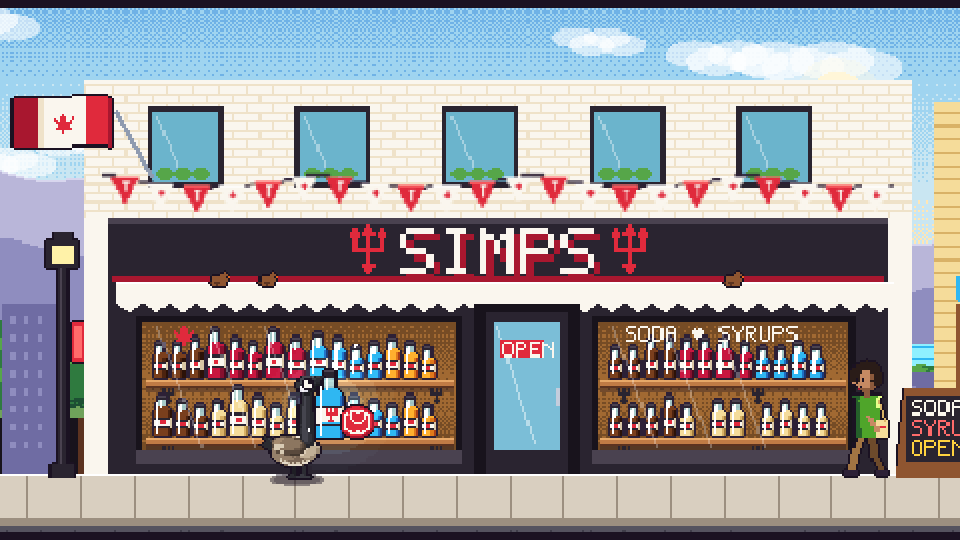
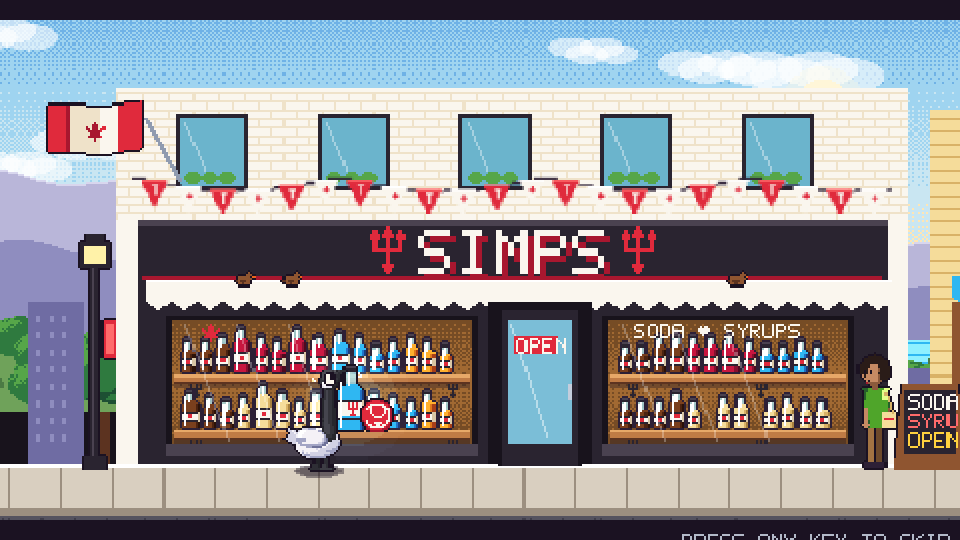
Phones held sideways: game widens to fill the screen with the original in-game buttons
- Canvas widens to the screen's shape (480-640 wide) on touch devices in landscape
- Gameplay camera uses the full width; HUD, buttons, dialogue and menus stay in a centred 480 frame
- Side-bar controls removed again (rotate-sideways card kept)
- Mobile e2e maps touches through the centred HUD frame

Claude-Session: https://claude.ai/code/session_019Ne5GHyCBQvH5tGTV4PYB6

diff --git a/simps-goose/src/systems/view.ts b/simps-goose/src/systems/view.ts
@@ -1,0 +1,59 @@
+/**
+ * Widescreen view for phones held sideways.
+ * The game is authored at 480x270 (16:9). Phones are wider (~19.5:9), which used to leave black
+ * bars. On a touch device in landscape the canvas widens (up to 640) to match the screen:
+ *  - gameplay cameras use the full width, so the level fills the screen;
+ *  - HUD, buttons, dialogue and every 480-wide menu/cutscene stay in a centred 480 frame,
+ *    exactly as they were designed.
+ */
+import Phaser from 'phaser';
+
+export const BASE_W = 480, BASE_H = 270;
+export const VIEW = { w: BASE_W, ox: 0 };
+
+export function desiredWidth(touch: boolean): number {
+  const W = window.innerWidth, H = window.innerHeight;
+  if (!touch || H >= W) return BASE_W;
+  return Math.max(BASE_W, Math.min(640, Math.round((BASE_H * W) / H)));
+}
+function setW(w: number) { VIEW.w = w; VIEW.ox = Math.round((w - BASE_W) / 2); }
+
+/** Non-gameplay scenes (menus, cutscenes, overlays): keep their 480-wide layout, centred. */
+export function fitFixed(scene: Phaser.Scene) {
+  for (const cam of scene.cameras.cameras) cam.setViewport(VIEW.ox, 0, BASE_W, BASE_H);
+}
+
+interface ViewLevel extends Phaser.Scene { worldW: number; uiCam?: Phaser.Cameras.Scene2D.Camera }
+/** Gameplay scenes: world camera as wide as the screen (or the level, if narrower); UI camera centred. */
+export function fitLevel(scene: ViewLevel) {
+  const main = scene.cameras.main;
+  const vw = Math.min(VIEW.w, Math.max(BASE_W, scene.worldW || BASE_W));
+  main.setViewport(Math.round((VIEW.w - vw) / 2), 0, vw, BASE_H);
+  if (!scene.uiCam) { scene.uiCam = scene.cameras.add(VIEW.ox, 0, BASE_W, BASE_H, false, 'ui'); scene.uiCam.setRoundPixels(true); }
+  scene.uiCam.setViewport(VIEW.ox, 0, BASE_W, BASE_H);
+}
+/** Route objects: screen-fixed UI (scrollFactor 0) → UI camera only; the world → main camera only. */
+export function routeCameras(scene: ViewLevel) {
+  const ui = scene.uiCam; if (!ui) return;
+  const mainId = scene.cameras.main.id, uiId = ui.id;
+  for (const o of scene.children.list as (Phaser.GameObjects.GameObject & { scrollFactorX?: number; cameraFilter: number })[]) {
+    o.cameraFilter = o.scrollFactorX === 0 ? mainId : uiId;
+  }
+}
+
+/** Install once in main.ts. */
+export function installView(game: Phaser.Game, isTouch: () => boolean, isLevel: (s: Phaser.Scene) => boolean) {
+  const apply = (s: Phaser.Scene) => { if (isLevel(s)) fitLevel(s as ViewLevel); else fitFixed(s); };
+  setW(desiredWidth(isTouch()));
+  for (const s of game.scene.scenes) s.events.on('create', () => apply(s));
+  const check = () => {
+    const w = desiredWidth(isTouch());
+    if (w === VIEW.w) return;
+    setW(w);
+    game.scale.setGameSize(w, BASE_H);
+    for (const s of game.scene.getScenes(false)) if (s.sys.settings.status >= Phaser.Scenes.CREATING) apply(s);
+  };
+  window.addEventListener('resize', () => setTimeout(check, 60));
+  window.addEventListener('orientationchange', () => setTimeout(check, 300));
+  return VIEW.w;
+}

diff --git a/simps-goose/src/levels/LevelScene.ts b/simps-goose/src/levels/LevelScene.ts
@@ -26,6 +26,7 @@ import { SFX } from '../audio/sfx';
 import { MUSIC, Song } from '../audio/music';
 import { Dialogue, Line } from '../ui/Dialogue';
 import { txt } from '../art/font';
+import { routeCameras } from '../systems/view';
 
 export type Phase = 'intro' | 'play' | 'picker' | 'cutscene' | 'frozen';
 export type PickupKind = 'drop' | 'leaf' | 'badge' | 'bottle' | 'card' | 'star' | 'bean' | 'token';
@@ -65,7 +66,7 @@ export abstract class LevelScene extends Phaser.Scene {
   checkpointSprites: { img: Phaser.GameObjects.Sprite; x: number; y: number; on: boolean }[] = [];
   stomps = 0;
   dialogue: Dialogue | null = null;
-  outfitBadge: Phaser.GameObjects.Image | null = null; offTopT = 0; stuckT = 0; lastHint = ''; hintWin: Phaser.GameObjects.Container | null = null;
+  outfitBadge: Phaser.GameObjects.Image | null = null; uiCam?: Phaser.Cameras.Scene2D.Camera; offTopT = 0; stuckT = 0; lastHint = ''; hintWin: Phaser.GameObjects.Container | null = null;
   cHold = -1; superCd = 0;
 
   // ---------------------------------------------------------------- hooks
@@ -89,6 +90,7 @@ export abstract class LevelScene extends Phaser.Scene {
   /** Call first in create(). */
   initLevel(o: { w: number; h: number; floor: number; bg: number; spawn: { x: number; y: number } }) {
     this.resetBase();
+    this.uiCam = undefined; // cameras are rebuilt on every (re)start
     this.worldW = o.w; this.worldH = o.h; this.floorY = o.floor;
     this.cameras.main.setBounds(0, 0, o.w, o.h).setBackgroundColor(o.bg).setRoundPixels(true);
     this.world = new PhysicsWorld();
@@ -431,6 +433,7 @@ export abstract class LevelScene extends Phaser.Scene {
 
   // ---------------------------------------------------------------- loop
   update(_t: number, deltaMs: number) {
+    routeCameras(this);
     if (this.phase === 'frozen') return;
     const dt = Math.min(deltaMs / 1000, 1 / 20);
     const hadDialogue = !!this.dialogue;

diff --git a/simps-goose/src/main.ts b/simps-goose/src/main.ts
@@ -1,5 +1,7 @@
 import Phaser from 'phaser';
 import { installTouchpad } from './systems/touchpad';
+import { installView, desiredWidth } from './systems/view';
+import { LevelScene } from './levels/LevelScene';
 import { setFullscreenNotifier } from './systems/fullscreen';
 import { BootScene, InputScene } from './scenes/BootScene';
 import { TitleScene } from './scenes/TitleScene';
@@ -20,10 +22,11 @@ import { TrueEndScene } from './scenes/TrueEndScene';
 import { JournalScene } from './scenes/JournalScene';
 
 (window as unknown as { __SIMPS: Record<string, unknown> }).__SIMPS = {};
+const touchDevice = () => ('ontouchstart' in window || navigator.maxTouchPoints > 0);
 const game = new Phaser.Game({
   type: Phaser.AUTO,
   parent: 'game',
-  width: 480,
+  width: desiredWidth(touchDevice()), // widens on phones held sideways so the game fills the screen
   height: 270,
   pixelArt: true,
   roundPixels: true,
@@ -34,6 +37,7 @@ const game = new Phaser.Game({
   scene: [BootScene, InputScene, TitleScene, IntroScene, StoreScene, StockroomScene, LabScene, DimensionScene, BossCarbScene, FakeEndScene, CafeScene, WaterfrontScene, OgopogoScene, TrueEndScene, UIScene, MixerScene, CoffeeScene, JournalScene],
 });
 (window as unknown as { __SIMPS: Record<string, unknown> }).__SIMPS.game = game;
+game.events.once('ready', () => installView(game, touchDevice, (s) => s instanceof LevelScene));
 installTouchpad(() => game.registry.get('touch') === true || ('ontouchstart' in window || navigator.maxTouchPoints > 0));
 for (const ev of ['fullscreenchange', 'webkitfullscreenchange']) document.addEventListener(ev, () => { setTimeout(() => game.scale.refresh(), 60); game.events.emit('fullscreen:change'); });
 setFullscreenNotifier((m, sub) => game.events.emit('hud:toast', m, 0xffc94a, sub));

diff --git a/simps-goose/src/systems/touchpad.ts b/simps-goose/src/systems/touchpad.ts
@@ -96,7 +96,7 @@ export function installTouchpad(isTouch: () => boolean) {
     const insets = (parseFloat(cs.paddingLeft) || 0) + (parseFloat(cs.paddingRight) || 0);
     // sideways: game at full height; whatever width is left over becomes the two button columns
     const bar = Math.floor((W - insets - (H * 16) / 9) / 2 + Math.max(parseFloat(cs.paddingLeft) || 0, parseFloat(cs.paddingRight) || 0));
-    const side = touch && !portrait && bar >= 64;
+    const side = false && bar >= 64; // sideways: original in-game buttons; the game itself widens to fill the screen (see view.ts)
     document.body.classList.toggle('pad-on', portrait && touch);
     document.body.classList.toggle('side-on', side);
     document.body.classList.toggle('ask-rotate', portrait && touch && !rotateDismissed);
